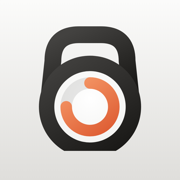
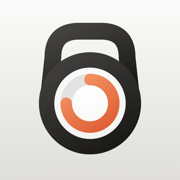
Website: GitHub Pages instead of FTP
The support page and privacy policy are published with GitHub Pages on every
push to main that changes website/, at https://mariokernich.github.io/nextset/.
The language links point there, and the icons follow the new round logo.

diff --git a/website/de/index.html b/website/de/index.html
@@ -5,8 +5,8 @@
   <meta name="viewport" content="width=device-width, initial-scale=1">
   <title>NextSet – Satzpausen-Timer für iPhone &amp; Apple Watch</title>
   <meta name="description" content="NextSet ist ein einfacher Satzpausen-Timer für iPhone und Apple Watch. Ein Tipp startet die Pause, die letzten Sekunden spürst du am Handgelenk und hörst sie.">
-  <link rel="alternate" hreflang="en" href="https://apps.kernich.de/nextset/">
-  <link rel="alternate" hreflang="de" href="https://apps.kernich.de/nextset/de/">
+  <link rel="alternate" hreflang="en" href="https://mariokernich.github.io/nextset/">
+  <link rel="alternate" hreflang="de" href="https://mariokernich.github.io/nextset/de/">
   <link rel="icon" href="../img/favicon.svg" type="image/svg+xml">
   <link rel="apple-touch-icon" href="../img/apple-touch-icon.png">
   <link rel="stylesheet" href="../style.css">

diff --git a/website/index.html b/website/index.html
@@ -5,8 +5,8 @@
   <meta name="viewport" content="width=device-width, initial-scale=1">
   <title>NextSet – Rest timer for iPhone &amp; Apple Watch</title>
   <meta name="description" content="NextSet is a simple rest timer for your sets on iPhone and Apple Watch. One tap starts your rest, the last seconds tap your wrist and beep.">
-  <link rel="alternate" hreflang="en" href="https://apps.kernich.de/nextset/">
-  <link rel="alternate" hreflang="de" href="https://apps.kernich.de/nextset/de/">
+  <link rel="alternate" hreflang="en" href="https://mariokernich.github.io/nextset/">
+  <link rel="alternate" hreflang="de" href="https://mariokernich.github.io/nextset/de/">
   <link rel="icon" href="img/favicon.svg" type="image/svg+xml">
   <link rel="apple-touch-icon" href="img/apple-touch-icon.png">
   <link rel="stylesheet" href="style.css">

diff --git a/website/de/privacy/index.html b/website/de/privacy/index.html
@@ -5,8 +5,8 @@
   <meta name="viewport" content="width=device-width, initial-scale=1">
   <title>NextSet – Datenschutzerklärung</title>
   <meta name="description" content="Datenschutzerklärung der App NextSet für iPhone, Apple Watch, Android und Wear OS.">
-  <link rel="alternate" hreflang="en" href="https://apps.kernich.de/nextset/privacy/">
-  <link rel="alternate" hreflang="de" href="https://apps.kernich.de/nextset/de/privacy/">
+  <link rel="alternate" hreflang="en" href="https://mariokernich.github.io/nextset/privacy/">
+  <link rel="alternate" hreflang="de" href="https://mariokernich.github.io/nextset/de/privacy/">
   <link rel="icon" href="../../img/favicon.svg" type="image/svg+xml">
   <link rel="apple-touch-icon" href="../../img/apple-touch-icon.png">
   <link rel="stylesheet" href="../../style.css">

diff --git a/website/privacy/index.html b/website/privacy/index.html
@@ -5,8 +5,8 @@
   <meta name="viewport" content="width=device-width, initial-scale=1">
   <title>NextSet – Privacy Policy</title>
   <meta name="description" content="Privacy policy of the NextSet app for iPhone, Apple Watch, Android and Wear OS.">
-  <link rel="alternate" hreflang="en" href="https://apps.kernich.de/nextset/privacy/">
-  <link rel="alternate" hreflang="de" href="https://apps.kernich.de/nextset/de/privacy/">
+  <link rel="alternate" hreflang="en" href="https://mariokernich.github.io/nextset/privacy/">
+  <link rel="alternate" hreflang="de" href="https://mariokernich.github.io/nextset/de/privacy/">
   <link rel="icon" href="../img/favicon.svg" type="image/svg+xml">
   <link rel="apple-touch-icon" href="../img/apple-touch-icon.png">
   <link rel="stylesheet" href="../style.css">

diff --git a/README.md b/README.md
@@ -109,7 +109,7 @@ android/                Gradle-Projekt (Smartphone, Wear OS)
   app/                  Smartphone-App (Bildschirme, Live-Benachrichtigung, App-Verknüpfungen)
   wear/                 Wear-OS-App (Bildschirme, Vordergrunddienst mit Ongoing Activity)
 Branding/               Logo, Icons und Banner samt Generator
-website/                Support-Seite und Datenschutzerklärung (apps.kernich.de/nextset)
+website/                Support-Seite und Datenschutzerklärung (mariokernich.github.io/nextset)
 ```
 
 Der Timer rechnet auf beiden Plattformen immer mit absoluten Zeitpunkten (`endDate` bzw. `endAt`), nicht mit einem mitlaufenden Zähler. Dadurch stimmt er auch dann, wenn die App im Hintergrund pausiert oder neu gestartet wird. Die Countdown-Ereignisse plant `CountdownPlan`, `TimerStore` spielt sie ab.
@@ -121,7 +121,7 @@ Der Timer rechnet auf beiden Plattformen immer mit absoluten Zeitpunkten (`endDa
 - **Android-Tests und -Builds:** in `android/` `./gradlew :core:testDebugUnitTest :app:assembleDebug :wear:assembleDebug`. Die Unit-Tests in `core` laufen auf der JVM, ohne Emulator.
 - **Android-Screenshots:** Debug-Builds nehmen dieselben Zustände wie iOS entgegen, z. B. `adb shell am start -n com.mariokernich.nextset/.MainActivity --es demo running` (Uhr: `…/com.mariokernich.nextset.wear.MainActivity`). Werte: `idle`, `running`, `countdown` (mit `--el demoEnd <Unix-Sekunden>`), `paused`, `finished`, `settings`.
 - **Icons neu erzeugen:** `cd Branding && npm install --no-save playwright && node build-icons.mjs`
-- **Webseite:** `website/` enthält die Support-Seite und die Datenschutzerklärung, auf Englisch und unter `de/` auf Deutsch. `.github/workflows/website.yml` lädt sie bei Pushes auf `main` per FTPS nach [apps.kernich.de/nextset](https://apps.kernich.de/nextset/) hoch, manuell geht es über *Actions → Website → Run workflow*. Nötig sind die Repository-Secrets `FTP_USERNAME` und `FTP_PASSWORD`.
+- **Webseite:** `website/` enthält die Support-Seite und die Datenschutzerklärung, auf Englisch und unter `de/` auf Deutsch. `.github/workflows/website.yml` veröffentlicht sie bei Pushes auf `main` über GitHub Pages unter [mariokernich.github.io/nextset](https://mariokernich.github.io/nextset/), manuell geht es über *Actions → Website → Run workflow*. In den Repository-Einstellungen steht *Pages → Source* dafür auf *GitHub Actions*.
 - **CI:** `.github/workflows/ios.yml` baut bei Pushes auf `main` und bei Pull Requests alle Targets auf einem macOS-26-Runner und führt die Tests aus, sobald sich etwas unter `ios/` ändert. Er nimmt das neueste Xcode 27 des Runner-Images, solange es keines gibt, dessen Standard-Xcode. Screenshots vom Simulator gibt es auf Knopfdruck: *Actions → iOS → Run workflow* (alle, nur iPhone oder nur Watch). Sie landen als Artefakt am Lauf. Hinweis: Bei privaten Repos zählen macOS-Minuten zehnfach zum Actions-Kontingent. `.github/workflows/android.yml` testet und baut die Android-Apps auf einem Linux-Runner, sobald sich etwas unter `android/` ändert.
 
 ## App Store
@@ -161,5 +161,5 @@ keyPassword=…
 In der Play Console abzugeben:
 - **Exakte Wecker:** Die App nutzt `USE_EXACT_ALARM` als Timer-App (Pausenende auf die Sekunde).
 - **Vordergrunddienst (Smartphone und Wear OS):** Typ *special use* – hält während einer Pause Countdown und Ende-Signal hörbar (Smartphone, ab Android 17 nötig) bzw. am Handgelenk spürbar (Uhr); am besten mit kurzem Video.
-- **Datensicherheit:** Es werden keine Daten erhoben oder geteilt. Datenschutzerklärung: [apps.kernich.de/nextset/privacy](https://apps.kernich.de/nextset/privacy/).
+- **Datensicherheit:** Es werden keine Daten erhoben oder geteilt. Datenschutzerklärung: [mariokernich.github.io/nextset/privacy](https://mariokernich.github.io/nextset/privacy/).
 - **Zielgruppe & Inhalt, Einstufung:** wie im App Store (keine Werbung, kein Login, Altersfreigabe für alle).
